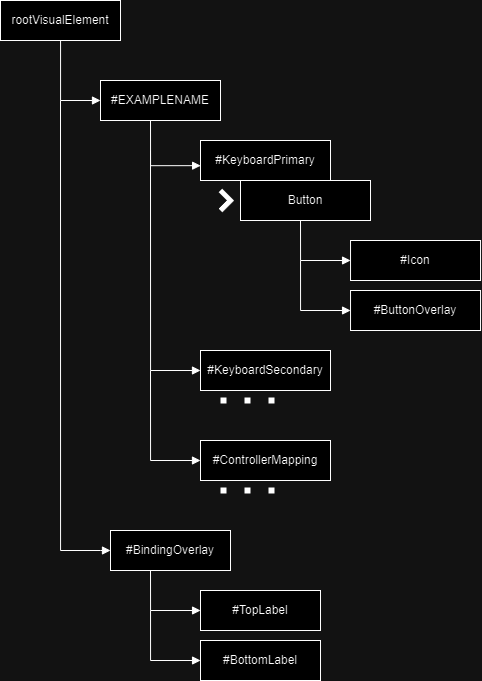
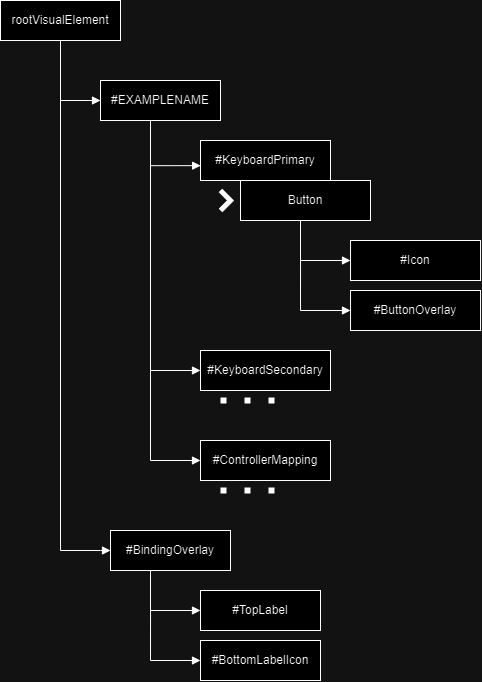
r

diff --git a/Documentation~/InputBinding.md b/Documentation~/InputBinding.md
@@ -1,13 +1,6 @@
 # Input Binding
 
-There are two primary parts to this package subset. The first is runtime input rebinding via 
-[**UIToolkit**](https://docs.unity3d.com/Manual/UIElements.html), the second is binding
-input paths to textures to use as representative icons. These bindings occur through
-unity's [**new input system**](https://docs.unity3d.com/Packages/com.unity.inputsystem@1.8/manual/index.html),
-so any project that wants to make use of these features will need to utilise that system
-for their inputs. To use this package its highly recommended that you have at least some intermediate knowledge 
-of unity's [**UIToolkit**](https://docs.unity3d.com/Manual/UIElements.html) and 
-[**InputSystem**](https://docs.unity3d.com/Packages/com.unity.inputsystem@1.8/manual/index.html) packages.
+There are two primary parts to this package subset. The first is runtime input rebinding via [**UIToolkit**](https://docs.unity3d.com/Manual/UIElements.html), the second is binding input paths to textures to use as representative icons. These bindings occur through unity's [**new input system**](https://docs.unity3d.com/Packages/com.unity.inputsystem@1.8/manual/index.html), so any project that wants to make use of these features will need to utilise that system for their inputs. To use this package its highly recommended that you have at least some intermediate knowledge of unity's [**UIToolkit**](https://docs.unity3d.com/Manual/UIElements.html) and [**InputSystem**](https://docs.unity3d.com/Packages/com.unity.inputsystem@1.8/manual/index.html) packages.
 
 [**Input Remapping**](#input-remapping)\
 [&emsp;> **1. Initial setup**](#initial-setup)\
@@ -24,12 +17,9 @@ of unity's [**UIToolkit**](https://docs.unity3d.com/Manual/UIElements.html) and
 
 
 There are three major components to setting up input rebinding.
-1. The [**UXML**](https://docs.unity3d.com/Manual/UIE-WritingUXMLTemplate.html) assets that will be loaded into the scene and act
-as the runtime interface for input rebinding.
-2. The [**InputActionAsset**](https://docs.unity3d.com/Packages/com.unity.inputsystem@0.9/manual/ActionAssets.html) you will
-be using to store your input actions.
-3. The [**UXMLRemappingBinder**](../InputBinding/Runtime/InputActionBinding/UIDocumentExtensions/UXMLRemmappingBinder.cs) MonoBehaviour,
-which binds the UI to the actions and is essentially the brain of the rebinding.
+1. The [**UXML**](https://docs.unity3d.com/Manual/UIE-WritingUXMLTemplate.html) assets that will be loaded into the scene and act as the runtime interface for input rebinding.
+2. The [**InputActionAsset**](https://docs.unity3d.com/Packages/com.unity.inputsystem@0.9/manual/ActionAssets.html) you will be using to store your input actions.
+3. The [**UXMLRemappingBinder**](../InputBinding/Runtime/InputActionBinding/UIDocumentExtensions/UXMLRemmappingBinder.cs) MonoBehaviour, which binds the UI to the actions and is essentially the brain of the rebinding.
 <br>
 
 If you would like to see an example on how to set up the input remapper along with these instructions, you can open a sample scene at;
@@ -43,76 +33,45 @@ If you would like to see an example on how to set up the input remapper along wi
 ## 2. UXML Assets
 This package comes with its own set of UXML and USS under \
 [/InputBinding/Assets/InputActionBinding/UIToolkit/](../InputBinding/Assets/InputActionBinding/UIToolkit/) \
-The most relevant of these being [**InputRemapper**](../InputBinding/Assets/InputActionBinding/UIToolkit/VisualTreeAssets/InputRemapper.uxml),
-which has all the elements to be used for a single action binding. There are also UXML elements for the singular buttons,
-[**ButtonWithIcon**](../InputBinding/Assets/InputActionBinding/UIToolkit/VisualTreeAssets/InputRemapper.uxml),
-used in [**InputRemapper**](../InputBinding/Assets/InputActionBinding/UIToolkit/VisualTreeAssets/InputRemapper.uxml).
-Additionally, container element [**SubMenu**](../InputBinding/Assets/InputActionBinding/UIToolkit/VisualTreeAssets/SubMenu.uxml) can be
-used for easily setting up menus with a header.
+The most relevant of these being [**InputRemapper**](../InputBinding/Assets/InputActionBinding/UIToolkit/VisualTreeAssets/InputRemapper.uxml), which has all the elements to be used for a single action binding. There are also UXML elements for the singular buttons, [**ButtonWithIcon**](../InputBinding/Assets/InputActionBinding/UIToolkit/VisualTreeAssets/InputRemapper.uxml), used in [**InputRemapper**](../InputBinding/Assets/InputActionBinding/UIToolkit/VisualTreeAssets/InputRemapper.uxml). Additionally, container element [**SubMenu**](../InputBinding/Assets/InputActionBinding/UIToolkit/VisualTreeAssets/SubMenu.uxml) can be used for easily setting up menus with a header.
 
-If you want to create
-your own UXML asset compatable with [**UXMLRemappingBinder**](../InputBinding/Runtime/InputActionBinding/UIDocumentExtensions/UXMLRemmappingBinder.cs),
-you can follow the instructions [here](#create-new-bindable-uxml-assets). Otherwise, if you want
-to learn how to use and modify the included UXML assets provided, you can find that [here](#using-existing-uxml-assets)
+If you want to create your own UXML asset compatable with [**UXMLRemappingBinder**](../InputBinding/Runtime/InputActionBinding/UIDocumentExtensions/UXMLRemmappingBinder.cs), you can follow the instructions [here](#create-new-bindable-uxml-assets). Otherwise, if you want to learn how to use and modify the included UXML assets provided, you can find that [here](#using-existing-uxml-assets)
 
 <br>
 
 ### Create New Bindable UXML Assets
 <br>
 
-<div style="float: left">
-<img style="float: left;padding-right: 20px" src="InputBinding/UXMLFlowGraph.png">
+<div style="float: left;width: 100%;">
+<img style="float: left;padding-right: 20px;" src="InputBinding/UXMLFlowGraph.png">
 
-This accompanied graph shows the hierarchy of Visual elements that is required for the
-[**UXMLRemappingBinder**](../InputBinding/Runtime/InputActionBinding/UIDocumentExtensions/UXMLRemmappingBinder.cs) to find all of the elements for the UI 
-to be properly bound.
+This accompanied graph shows the hierarchy of Visual elements that is required for the [**UXMLRemappingBinder**](../InputBinding/Runtime/InputActionBinding/UIDocumentExtensions/UXMLRemmappingBinder.cs) to find all of the elements for the UI to be properly bound.
 
-To create a **single input action rebinder** with the three rebindable binding paths, you will need a container
-VisualElement that has a unique **name** (Shown as #EXAMPLENAME),
-which is used by the [**UXMLRemappingBinder**](../InputBinding/Runtime/InputActionBinding/UIDocumentExtensions/UXMLRemmappingBinder.cs)
-to link its sub-buttons to a specific action. This element then needs to contain three children elements with the
-names, **KeyboardPrimary**, **KeyboardSecondary**, **ControllerMapping**. Each of these need to have a 
-[**Button**](https://docs.unity3d.com/Manual/UIE-uxml-element-Button.html) as their **first child**.
-Then finally, **all three** of these buttons need to have VisualElement children with the names **Icon** and
-**ButtonOverlay**. These elements are used for the icon of the currently chosen input binding,
-and an overlay for when the button is disabled, respectively.
+To create a **single input action rebinder** with the three rebindable binding paths, you will need a container VisualElement that has a unique **name** (Shown as #EXAMPLENAME), which is used by the [**UXMLRemappingBinder**](../InputBinding/Runtime/InputActionBinding/UIDocumentExtensions/UXMLRemmappingBinder.cs) to link its sub-buttons to a specific action. This element then needs to contain three children elements with the names, **KeyboardPrimary**, **KeyboardSecondary**, **ControllerMapping**. Each of these need to have a [**Button**](https://docs.unity3d.com/Manual/UIE-uxml-element-Button.html) as their **first child**. Then finally, **all three** of these buttons need to have a VisualElement child with the name **ButtonOverlay**, and an [**InputBindingIconElement**](../InputBinding/Runtime/InputIconBinding/VisualElements/InputBindingIconElement.cs) with the name **Icon**. These elements are used for the icon of the currently chosen input binding, and an overlay for when the button is disabled, respectively. More on how to add an [**InputBindingIconElement**](../InputBinding/Runtime/InputIconBinding/VisualElements/InputBindingIconElement.cs) can be found here.
 
-The final UXML asset used for the asset rebinding, it is recommended to include an overlay element to give feedback to the binding and allows
-the display of relevant information, as well as stopping the player from interacting with anything else while the binding is taking place.
-To do this, Implement a VisualElement with the name **BindingOverlay**, and give it two children **Labels**, called **TopLabel** and **BottomLabel**.
+The final UXML asset used for the asset rebinding, it is recommended to include an overlay element to give feedback to the binding and allows the display of relevant information, as well as stopping the player from interacting with anything else while the binding is taking place. To do this, Implement a VisualElement with the name **BindingOverlay**, and give it a child **Label** called **TopLabel**, and an [**InputBindingIconElement**](../InputBinding/Runtime/InputIconBinding/VisualElements/InputBindingIconElement.cs) called **BottomLabelIcon**.
 
 </div>
 &nbsp;
 <br>
 <br>
 
-You will also need to create a new [**USS**](https://docs.unity3d.com/Manual/UIE-about-uss.html)
-asset attached to these [**UXML**](https://docs.unity3d.com/Manual/UIE-WritingUXMLTemplate.html) assets with the following
-[**USS classes**](https://docs.unity3d.com/Manual/UIE-USS-Selectors-class.html):
+You will also need to create a new [**USS**](https://docs.unity3d.com/Manual/UIE-about-uss.html) asset attached to these [**UXML**](https://docs.unity3d.com/Manual/UIE-WritingUXMLTemplate.html) assets with the following [**USS classes**](https://docs.unity3d.com/Manual/UIE-USS-Selectors-class.html):
 
 1. **.hidden** \
-    This is added/removed from **BindingOverlay** when a rebinding begins/ends. In the sample scene this sets the
-    [**display to none**](https://docs.unity3d.com/Manual/UIE-USS-SupportedProperties.html#:~:text=display%3A%20flex%20%7C%20none)
+    This is added/removed from **BindingOverlay** when a rebinding begins/ends. In the sample scene this sets the [**display to none**](https://docs.unity3d.com/Manual/UIE-USS-SupportedProperties.html#:~:text=display%3A%20flex%20%7C%20none)
 
 2. **.disabled** \
-    This is added/removed from the rebinding [**Buttons**](https://docs.unity3d.com/Manual/UIE-uxml-element-Button.html)
-    when they have been disabled in the inspector. In the sample scene this
-    [**displays**](https://docs.unity3d.com/Manual/UIE-USS-SupportedProperties.html#:~:text=display%3A%20flex%20%7C%20none)
-    the button's **ButtonOverlay** child with a striped texture
+    This is added/removed from the rebinding [**Buttons**](https://docs.unity3d.com/Manual/UIE-uxml-element-Button.html) when they have been disabled in the inspector. In the sample scene this [**displays**](https://docs.unity3d.com/Manual/UIE-USS-SupportedProperties.html#:~:text=display%3A%20flex%20%7C%20none) the button's **ButtonOverlay** child with a striped texture
 
 2. **.greyedOut** \
-    This is added/removed from the rebinding [**Buttons**](https://docs.unity3d.com/Manual/UIE-uxml-element-Button.html)
-    when they can't/can be used based on the current control method. In the sample scene this
-    [**displays**](https://docs.unity3d.com/Manual/UIE-USS-SupportedProperties.html#:~:text=display%3A%20flex%20%7C%20none)
-    the button's **ButtonOverlay**, and makes it grey and semi-transparent
+    This is added/removed from the rebinding [**Buttons**](https://docs.unity3d.com/Manual/UIE-uxml-element-Button.html) when they can't/can be used based on the current control method. In the sample scene this [**displays**](https://docs.unity3d.com/Manual/UIE-USS-SupportedProperties.html#:~:text=display%3A%20flex%20%7C%20none) the button's **ButtonOverlay**, and makes it grey and semi-transparent
 <br>
 <br>
 
 **Using Custom Controls**
 
-If you are using a [**custom control**](https://docs.unity3d.com/Manual/UIE-custom-controls.html) element that loads a UXML
-asset inside of itself, it is highly recommended to load it through the UILoader inside this package. Further information on how to use
-that sub-package can be found here.
+If you are using a [**custom control**](https://docs.unity3d.com/Manual/UIE-custom-controls.html) element that loads a UXML asset inside of itself, it is highly recommended to load it through the UILoader inside this package. Further information on how to use that sub-package can be found here.
 
 <br>
 
@@ -126,13 +85,7 @@ that sub-package can be found here.
 <div style="float: left">
 <img style="float: right;" src="InputBinding/CustomControlPath.png">
 
-If you want to take advantage of the existing [**UXML controls**](https://docs.unity3d.com/Manual/UIE-custom-controls.html)
-and assets, the best way to do it is to create a custom [**USS**](https://docs.unity3d.com/Manual/UIE-about-uss.html)
-asset to decorate them. The [**InputRemapper control**](../InputBinding/Runtime/InputActionBinding/VisualElements/ButtonRemapperElement.cs)
-can be imported into a UXML document, and a USS asset can be added into that container document, overriding the existing
-styles. An example of this can be found below. Additionally if you are using the
-[**InputRemapper control**](../InputBinding/Runtime/InputActionBinding/VisualElements/ButtonRemapperElement.cs), you can modify the **input name**
-variable to change the name of the control, and the text of the label.
+If you want to take advantage of the existing [**UXML controls**](https://docs.unity3d.com/Manual/UIE-custom-controls.html) and assets, the best way to do it is to create a custom [**USS**](https://docs.unity3d.com/Manual/UIE-about-uss.html) asset to decorate them. The [**InputRemapper control**](../InputBinding/Runtime/InputActionBinding/VisualElements/ButtonRemapperElement.cs) can be imported into a UXML document, and a USS asset can be added into that container document, overriding the existing styles. An example of this can be found below. Additionally if you are using the [**InputRemapper control**](../InputBinding/Runtime/InputActionBinding/VisualElements/ButtonRemapperElement.cs), you can modify the **input name** variable to change the name of the control, and the text of the label.
 </div>
 
 <img style="" src="InputBinding/ClassOverrideExample.png">
@@ -145,28 +98,27 @@ variable to change the name of the control, and the text of the label.
 
 <div style="float: left; width: 100%">
 
-[**UXMLRemappingBinder**](../InputBinding/Runtime/InputActionBinding/UIDocumentExtensions/UXMLRemmappingBinder.cs) is the monobehaviour that
-binds the UI its rebinding functionality, as well as having several other utility functions. In order to add this behaviour
-to a Gameobject, you first need to add a [**UIDocument**](https://docs.unity3d.com/ScriptReference/UIElements.UIDocument.html),
-then a **UIDocumentExtender**, a behaviour added to this package. More information about using the **UIDocumentExtender**
-can be found here.
+[**UXMLRemappingBinder**](../InputBinding/Runtime/InputActionBinding/UIDocumentExtensions/UXMLRemmappingBinder.cs) is the monobehaviour that binds the UI its rebinding functionality, as well as having several other utility functions. In order to add this behaviour to a Gameobject, you first need to add a [**UIDocument**](https://docs.unity3d.com/ScriptReference/UIElements.UIDocument.html), then a **UIDocumentExtender**, a behaviour added to this package. More information about using the **UIDocumentExtender** can be found here.
 
-Binding remapping UI to an action is fairly simple. Each remapper is added as a single element in the Input Action Binders array,
-which references an input name, action reference, and three bindings of the selected action. If the **input name** matches the
-**name** of any element inside the UIDocument's loaded UXML asset, they will be bound.
+Binding remapping UI to an action is fairly simple. Each remapper is added as a single element in the Input Action Binders array, which references an input name, action reference, and three bindings of the selected action. If the **input name** matches the **name** of any element inside the UIDocument's loaded UXML asset, they will be bound.
 
 <img src="InputBinding/NameLinking.png">
 </div>
 <br>
 
-<!--<img style="width: 600px" src="InputBinding/NameLinking.png">-->
-
-
-<!--![](InputBinding/InspectorExample.png)
-![](InputBinding/NameLinking.png)
--->
-
 # Input Icon Binding
 
+The icon binding sub-package lets you bind a texture to an input path. These bindings are set up in a [**SOButtonIconBindings**](../InputBinding/Runtime/InputIconBinding/SOButtonIconBindings.cs), and can be accessed directly through the singleton class [**ButtonIconBindingsEditorSettings**](../InputBinding/Runtime/InputIconBinding/ButtonIconBindingsEditorSettings.cs). There are also utility [**UXML controls**](https://docs.unity3d.com/Manual/UIE-custom-controls.html), [**InputBindingIconElement**](../InputBinding/Runtime/InputIconBinding/VisualElements/InputBindingIconElement.cs) and [**InputBindingTextWithIconsElement**](../InputBinding/Runtime/InputIconBinding/VisualElements/InputBindingIconElement.cs), which allow you to utilise the texture bindings without scripting.
 
+## Binding Icons To Textures
 
+<img src="InputBinding/CreateBindingsSOPath.png">
+
+To set up the texture bindings, you will first need to create a [**SOButtonIconBindings**](../InputBinding/Runtime/InputIconBinding/SOButtonIconBindings.cs) to hold them. The path to create this [**ScriptableObject**](https://docs.unity3d.com/Manual/class-ScriptableObject.html) instance is to open the **Assets** tab at the top of the editor, then navigate through **Create > Util Essentials > InputAction Binding > Button Icon Bindings**. Opening this newly created asset in the project window will open a new window called **Button Icon Bindings**. 
+
+<div style="float: left; width: 100%">
+<img style="float: left; width: 700px;padding-right: 10px" src="InputBinding/ButtonIconBindingsFull.png">
+
+The first thing you will need to create is a new **Binding Set** by pressing the **plus** icon on the left most container. Through the **Binding Set**, you can access all of the bindings of an **input category**. This can be changed through clicking on the icon on the right of the **Binding Set**, or through the rightmost menu when the **Binding Set** is **selected**. 
+
+</div>
